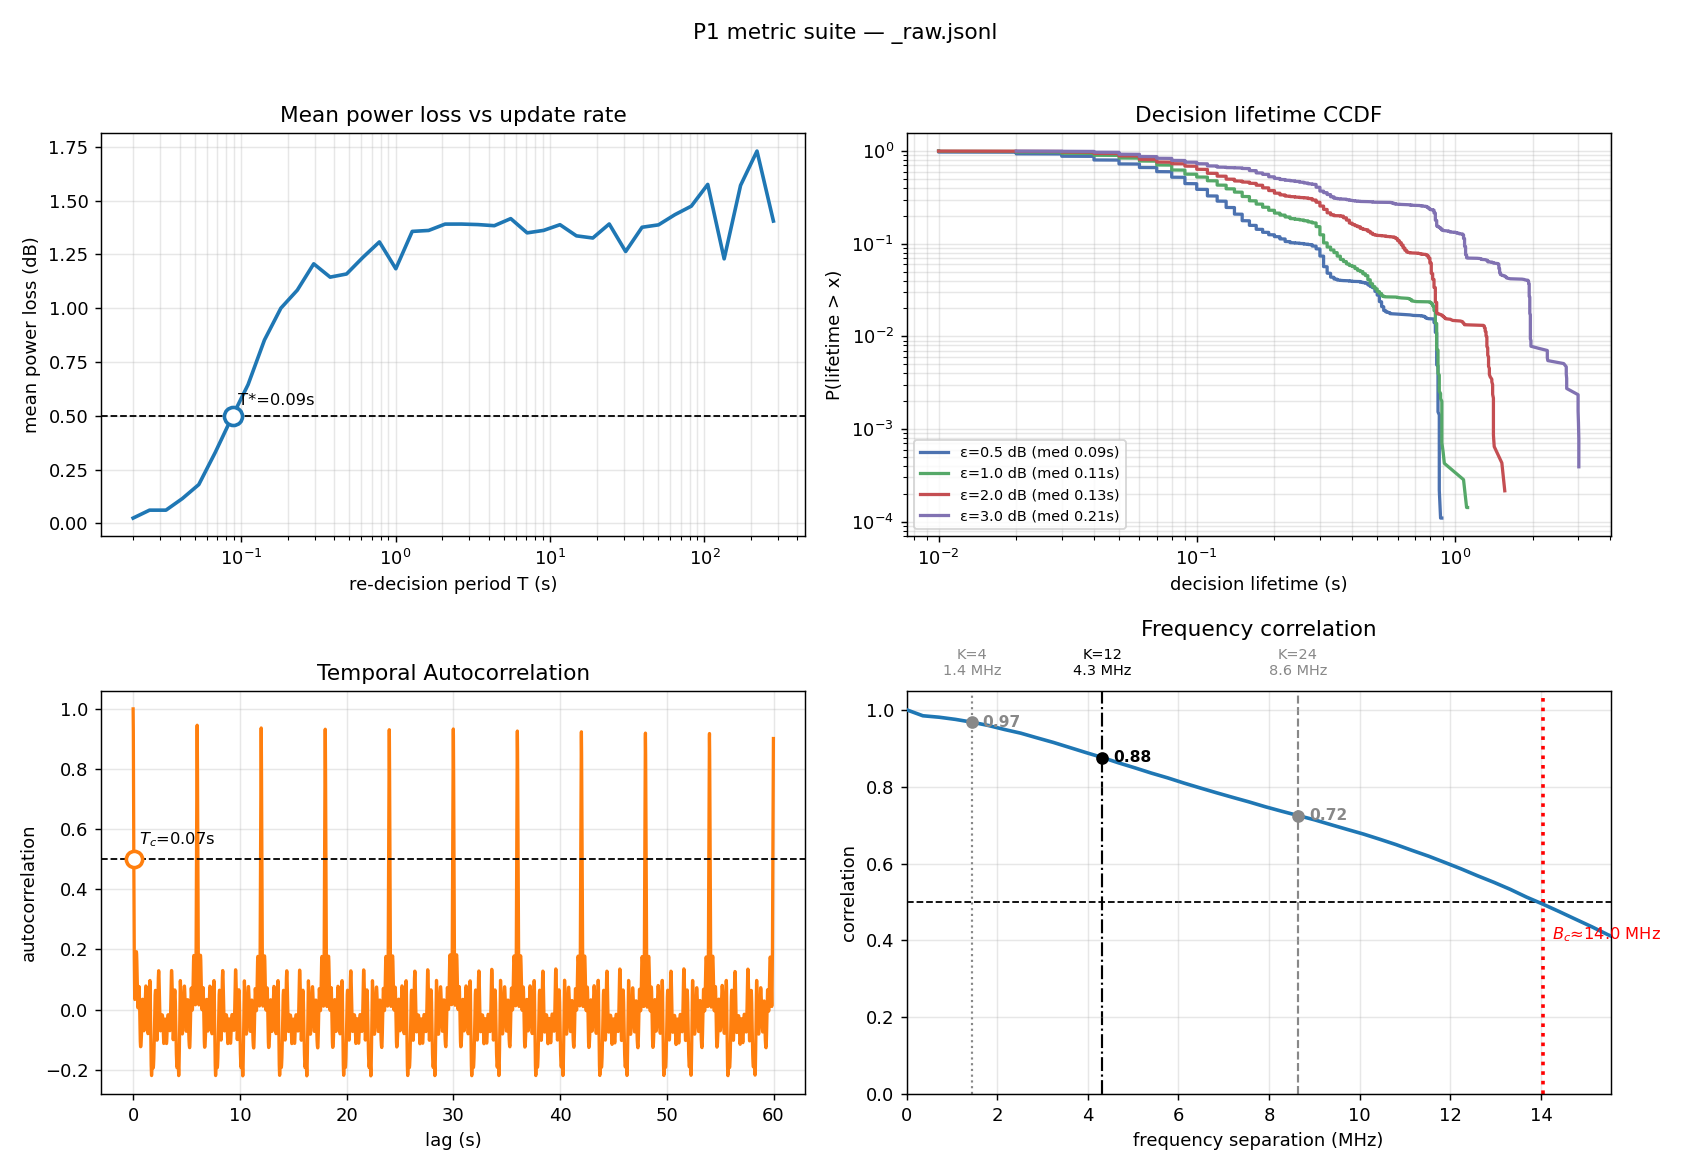
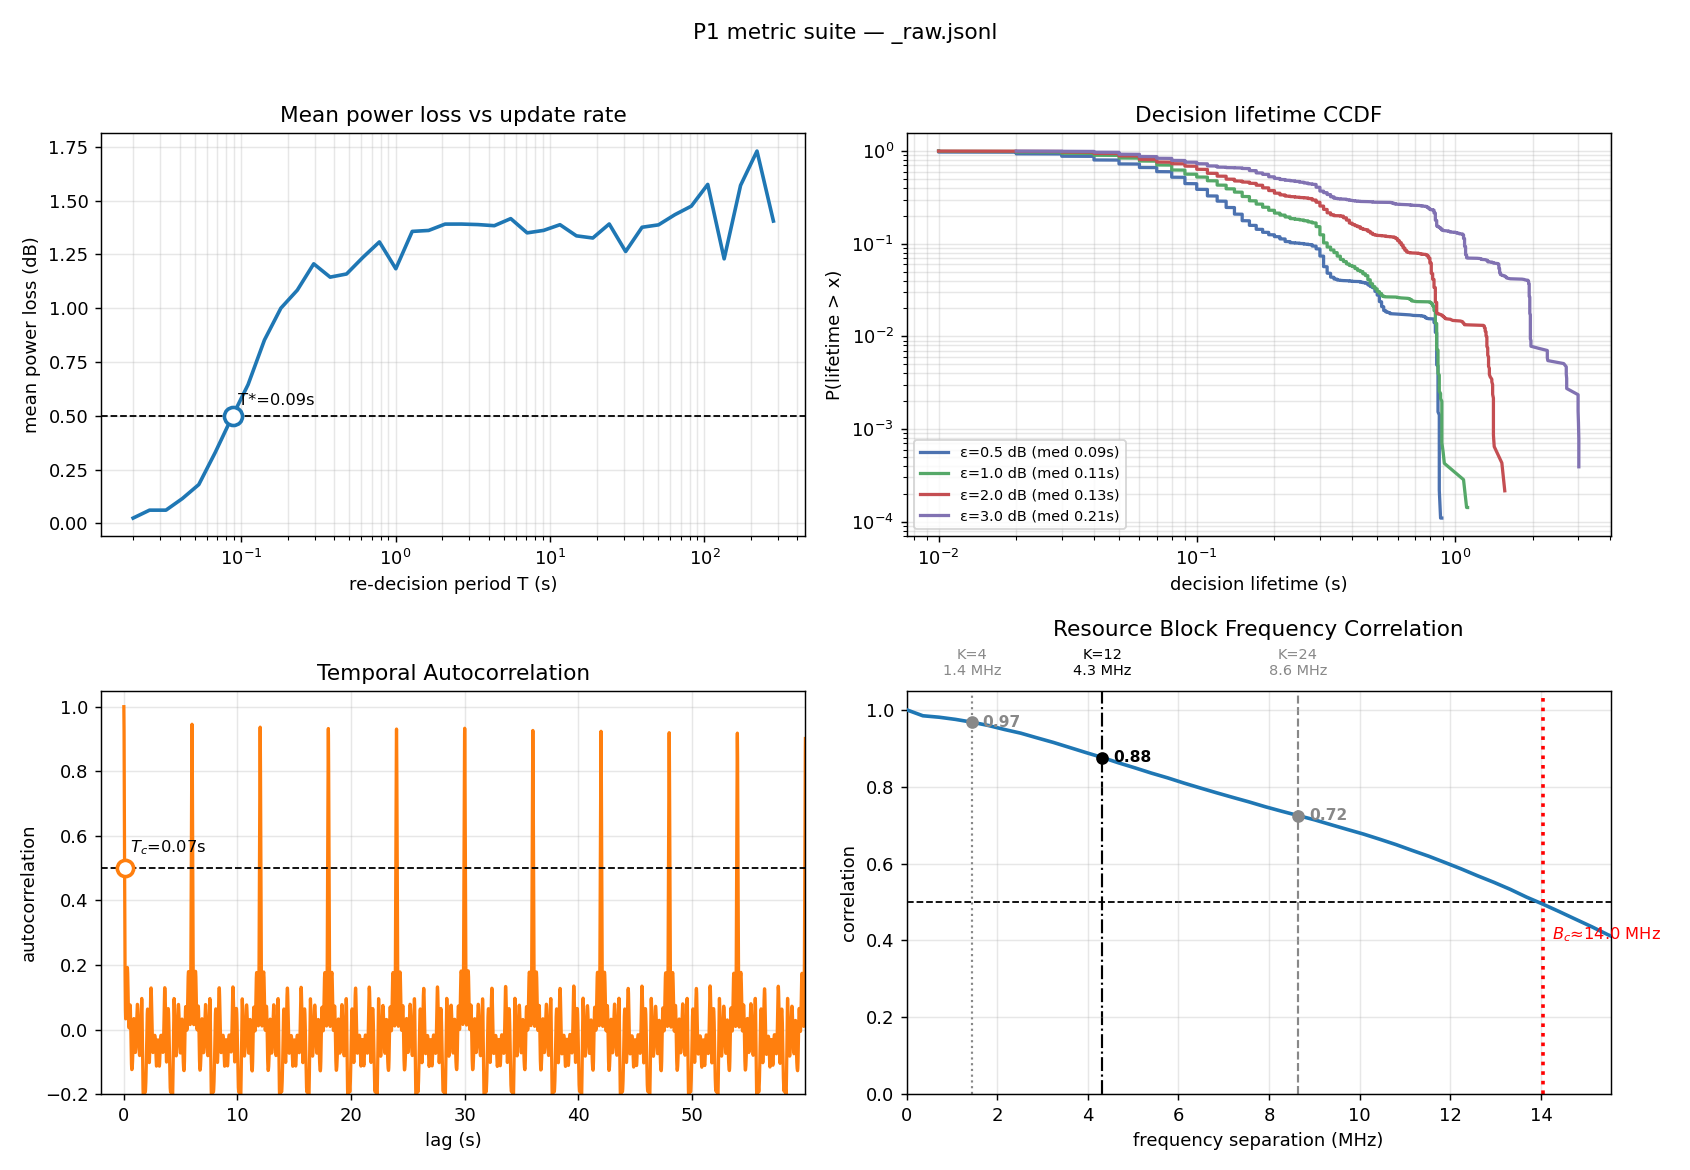
metrics_suite.py: rename frequency correlation panel title to 'Resource Block Frequency Correlation'; reprocess all 14 mobility runs and static E000

Changed region(s): [[0.0308, 0.6154, 0.4923, 0.9538], [0.6154, 0.5231, 0.8615, 0.5538]]

diff --git a/tools/metrics_suite.py b/tools/metrics_suite.py
@@ -299,7 +299,7 @@ def main():
     ax[1, 1].set_ylim(0, 1.05)
     ax[1, 1].set_xlabel("frequency separation (MHz)")
     ax[1, 1].set_ylabel("correlation")
-    ax[1, 1].set_title("Frequency correlation", pad=30)
+    ax[1, 1].set_title("Resource Block Frequency Correlation", pad=30)
     ax[1, 1].grid(alpha=0.3, zorder=0)
     L.append(f"Bc(0.5)     : {Bc:.2f} MHz  (RU width K={a.K} = {a.K*RBBW/1e6:.2f} MHz)")
 
